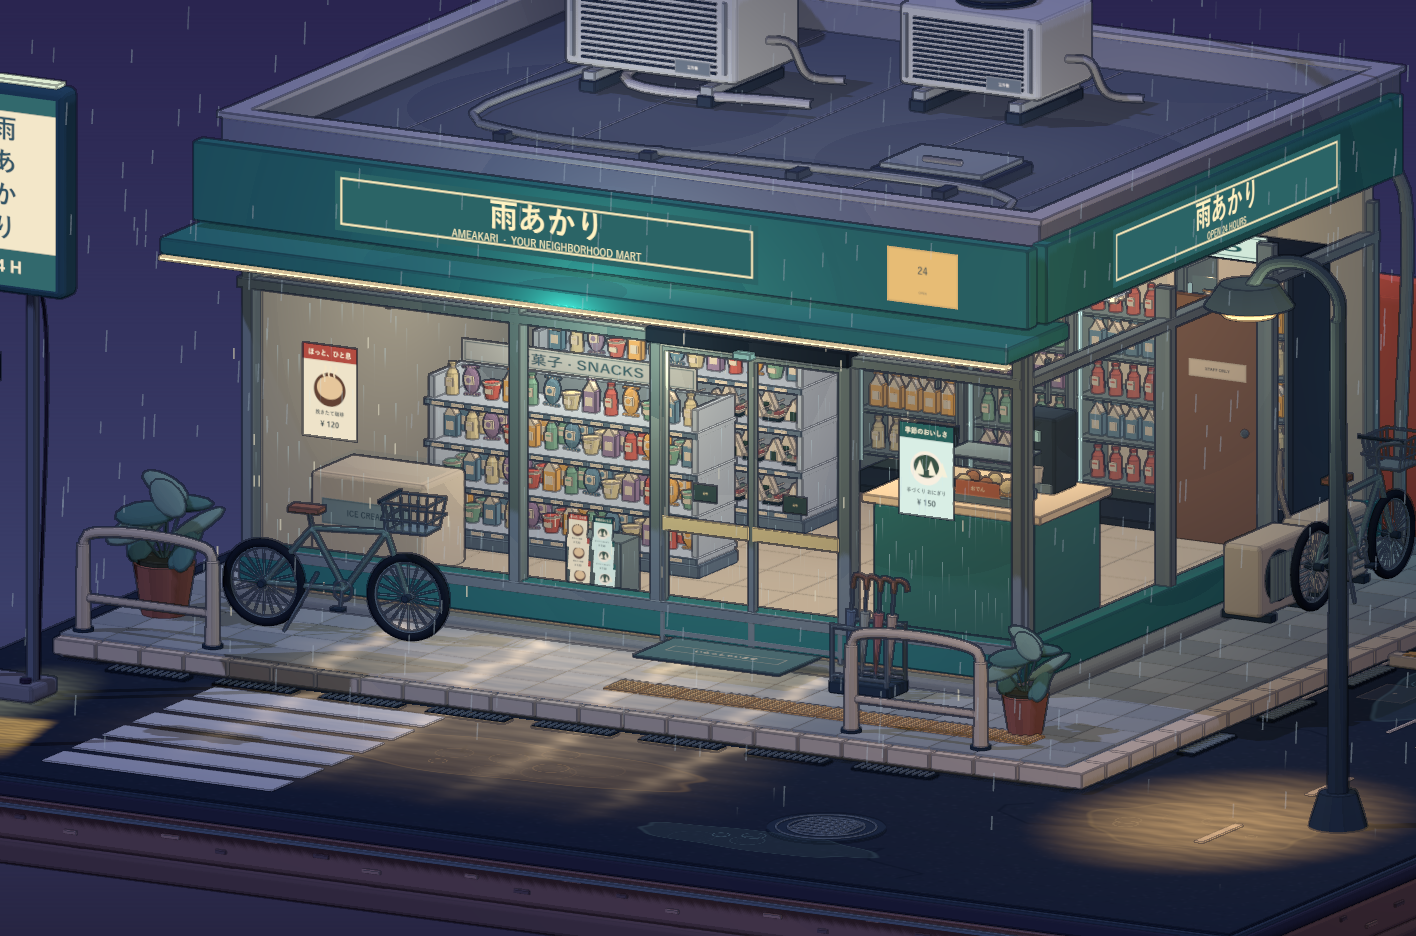
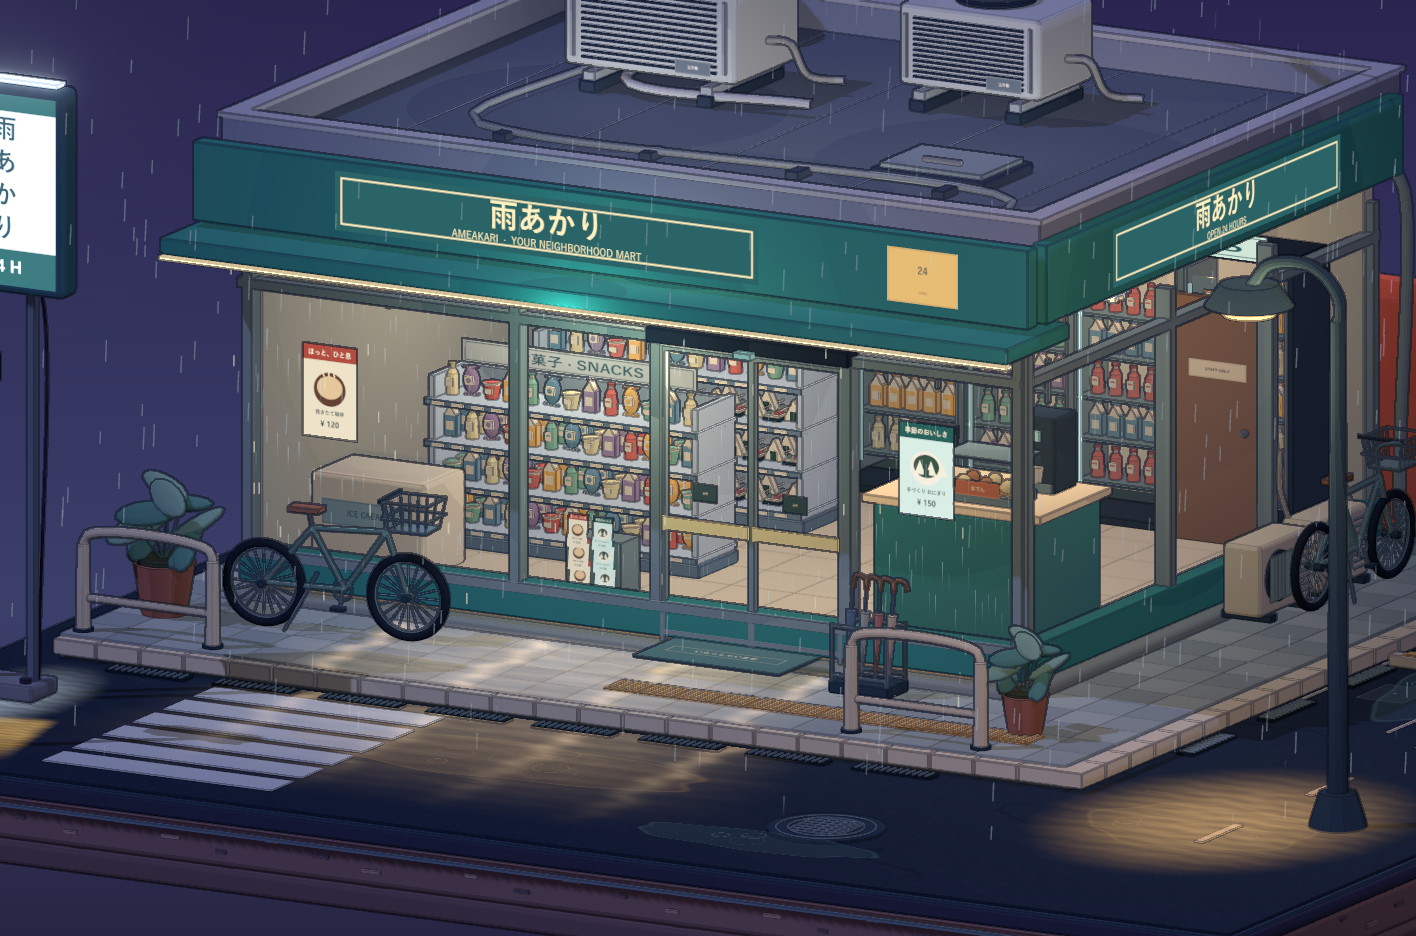
[codex] X-50 点亮立柱灯箱并修正贩卖机漏光

Changed region(s): [[0.0, 0.031, 0.0621, 0.3098], [0.0, 0.7126, 0.0621, 0.7746]]

diff --git a/apps/desktop/e2e/fixtures/rainy-konbini/neighborhood.js b/apps/desktop/e2e/fixtures/rainy-konbini/neighborhood.js
@@ -54,12 +54,13 @@ export function neighborhood(c){
   for(const x of [-.19,.19]){box(.085,3.82,.085,x,1.99,0,steel,pylon,.018);cylinder(.05,.05,.035,x,.17,.12,dark,pylon,16);}
   box(1.12,1.80,.28,0,4.38,0,toon('#386a78'),pylon,.07);
   const face=canvasTexture(512,896,(g,w,h)=>{
-    g.fillStyle='#f3e7c9';g.fillRect(0,0,w,h);g.fillStyle='#32696d';g.fillRect(0,0,w,78);g.fillRect(0,h-170,w,170);
+    g.fillStyle='#e4eef0';g.fillRect(0,0,w,h);g.fillStyle='#32696d';g.fillRect(0,0,w,78);g.fillRect(0,h-170,w,170);
     g.fillStyle='#315567';g.textAlign='center';g.textBaseline='middle';g.font='700 126px "Yu Gothic",Meiryo,sans-serif';
     [...'雨あかり'].forEach((ch,i)=>g.fillText(ch,w/2,157+i*155));
-    g.fillStyle='#f3e7c9';g.font='700 76px sans-serif';g.fillText('24 H',w/2,h-82);
+    g.fillStyle='#e4eef0';g.font='700 76px sans-serif';g.fillText('24 H',w/2,h-82);
   });
-  for(const side of [-1,1]){const panel=mesh(new T.PlaneGeometry(.98,1.64),new T.MeshBasicMaterial({map:face,toneMapped:false}),[0,4.38,side*.148],pylon);if(side<0)panel.rotation.y=Math.PI;}
-  box(.93,.04,.16,0,5.30,0,glow('#d9e7cf',1.05),pylon,.01);
+  const lightboxFace=new T.MeshBasicMaterial({map:face,color:new T.Color().setScalar(1.45),toneMapped:false});
+  for(const side of [-1,1]){const panel=mesh(new T.PlaneGeometry(.98,1.64),lightboxFace,[0,4.38,side*.148],pylon);if(side<0)panel.rotation.y=Math.PI;}
+  box(.93,.04,.16,0,5.30,0,glow('#d4e9ff',2.05),pylon,.01);
   tube([[.22,.15,-.05],[.22,3.55,-.05],[0,3.63,-.12]],.014,dark,pylon);
 }

diff --git a/apps/desktop/e2e/fixtures/rainy-konbini/street.js b/apps/desktop/e2e/fixtures/rainy-konbini/street.js
@@ -75,7 +75,8 @@ export function buildStreet(c) {
   label(index?'HOT & COLD':'つめたい',.74,.17,-.03,1.99,.414,{parent:vending,bg:'#295f70',fg:'#e6f2da',font:105,lit:true});
   }
   vendingMachine(1.54,0);vendingMachine(2.66,1);
-  const vendingLight=new T.PointLight('#8cdbdf',3,5,1.9);vendingLight.position.set(2.1,1.4,-6.2);root.add(vendingLight);
+  const vendingLight=new T.SpotLight('#8cdbdf',4,4,Math.PI*.28,.65,1.9);vendingLight.position.set(2.1,2.20,-6.45);
+  vendingLight.target.position.set(2.1,.65,-6.0);root.add(vendingLight,vendingLight.target);
   // Bins, umbrellas and a detailed bicycle.
   const bins=group('recycling-bins',-5.95,.28,.20);
   for(let i=0;i<2;i++){cylinder(.23,.22,.7,0,.35,-i*.57,toon(i?'#66877e':'#aab5ac'),bins,24);cylinder(.25,.25,.09,0,.73,-i*.57,cream,bins,24);box(.25,.085,.02,0,.63,.235-i*.57,dark,bins,.02);label(i?'缶':'PET',.16,.12,0,.44,.229-i*.57,{parent:bins,font:130});}

diff --git a/apps/desktop/e2e/fixtures/rainy-konbini/light-pools.js b/apps/desktop/e2e/fixtures/rainy-konbini/light-pools.js
@@ -62,7 +62,7 @@ export function paintedLightPools(scene, time) {
   pool('shop-amber-fan',-1.90,3.86,7.8,5.3,'#f6d5a8',.56,0);
   pool('streetlamp-warm-pool',5.03,3.55,3.35,4.2,'#f3c17c',.52,1);
   pool('vending-cyan-reflection',2.10,-6.27,2.65,1.1,'#6acbd5',.54,2,Math.PI);
-  pool('pylon-soft-reflection',-6.03,4.65,1.45,2.7,'#ced7b5',.22,1);
+  pool('pylon-soft-reflection',-6.03,4.65,1.45,2.7,'#d4e9ff',.40,1);
   pool('service-door-warm-pool',-.15,-5.62,2.45,2.25,'#f5cf91',.60,1);
   const signal=pool('signal-changing-streak',-5.45,6.0,.82,1.65,'#69c5a4',.32,2,.20);
   return {group,pools,signal,time};
